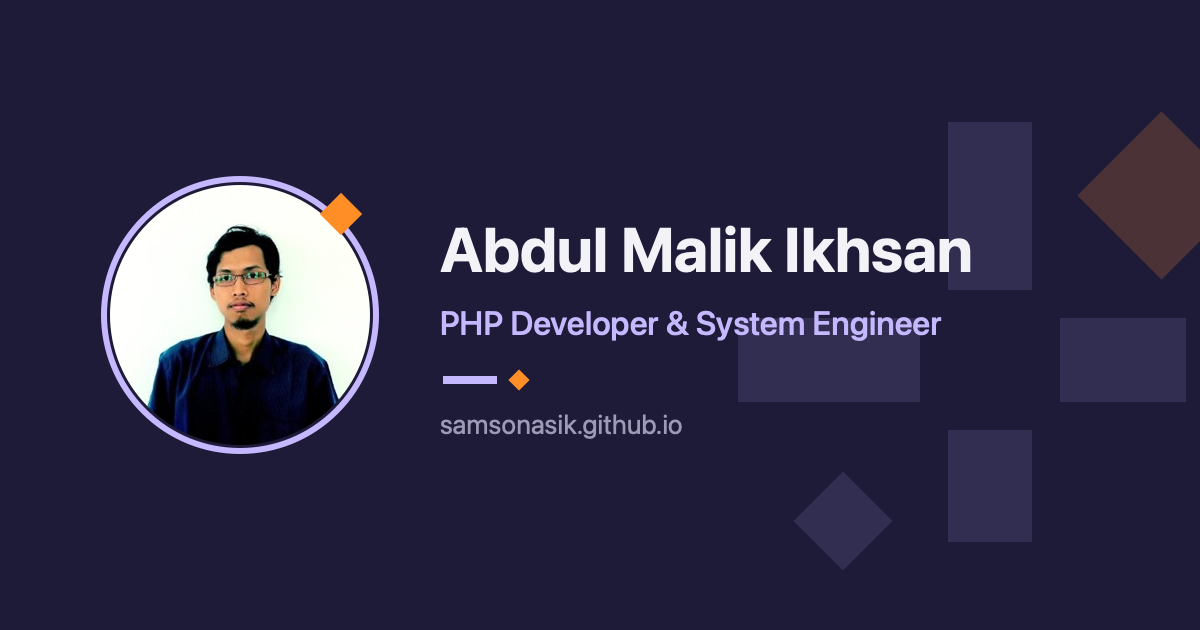
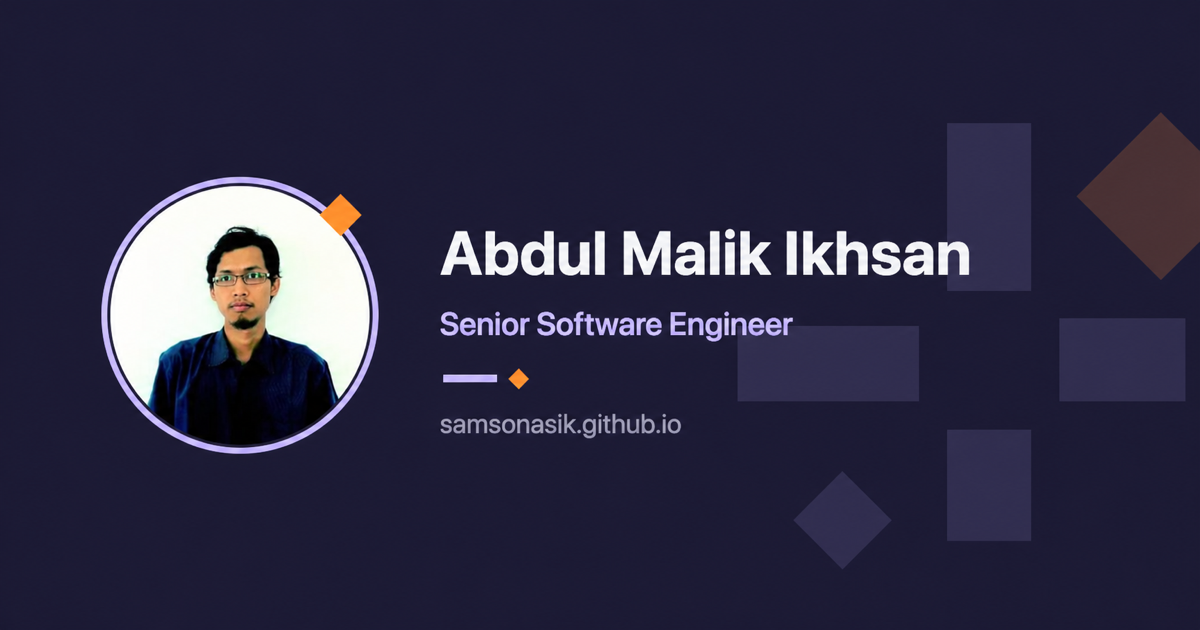
include java

diff --git a/index.html b/index.html
@@ -6,21 +6,23 @@
 <meta name="color-scheme" content="light dark">
 <meta name="theme-color" content="#EFEEF5" media="(prefers-color-scheme: light)">
 <meta name="theme-color" content="#110F1D" media="(prefers-color-scheme: dark)">
-<title>Abdul Malik Ikhsan — PHP Developer &amp; System Engineer</title>
-<meta name="description" content="Abdul Malik Ikhsan (samsonasik) — PHP developer and system engineer in Bandung Barat, Indonesia. Laminas Technical Steering Committee member, top Zend Framework and CodeIgniter 4 contributor.">
-<meta name="keywords" content="php, developer, remote, laminas, zend, mezzio, rector, codeigniter, apigility">
+<title>Abdul Malik Ikhsan — Senior Software Engineer</title>
+<meta name="description" content="Abdul Malik Ikhsan (samsonasik) — senior software engineer in Bandung Barat, Indonesia, with deep experience in web applications, framework development, and open source. Laminas Technical Steering Committee member and leading framework contributor.">
+<meta name="keywords" content="senior software engineer, php, remote, open source, laminas, zend, mezzio, rector, codeigniter, apigility">
 <link rel="canonical" href="https://samsonasik.github.io/">
 
-<meta property="og:title" content="Abdul Malik Ikhsan — PHP Developer &amp; System Engineer">
-<meta property="og:description" content="Abdul Malik Ikhsan (samsonasik) — PHP developer and system engineer in Bandung Barat, Indonesia. Laminas Technical Steering Committee member, top Zend Framework and CodeIgniter 4 contributor.">
+<meta property="og:title" content="Abdul Malik Ikhsan — Senior Software Engineer">
+<meta property="og:description" content="Abdul Malik Ikhsan (samsonasik) — senior software engineer with deep experience in web applications, framework development, and open source.">
 <meta property="og:image" content="https://samsonasik.github.io/og-image.png">
 <meta property="og:image:width" content="1200">
 <meta property="og:image:height" content="630">
+<meta property="og:image:alt" content="Abdul Malik Ikhsan — Senior Software Engineer">
 <meta property="og:type" content="website">
 <meta property="og:url" content="https://samsonasik.github.io/">
 
 <meta name="twitter:card" content="summary_large_image">
 <meta name="twitter:image" content="https://samsonasik.github.io/og-image.png">
+<meta name="twitter:image:alt" content="Abdul Malik Ikhsan — Senior Software Engineer">
 
 <link rel="icon" href="samsonasik-mark.svg" type="image/svg+xml">
 <link rel="preconnect" href="https://fonts.googleapis.com">
@@ -711,7 +713,7 @@ footer .contact:hover{border-color:var(--php);color:#fff;background:rgba(122,126
       <div class="reveal">
         <p class="hero-kicker">Bandung Barat, Indonesia · available remote</p>
         <h1>Abdul Malik <span class="light">Ikhsan</span></h1>
-        <p class="hero-role">PHP Developer &amp; System Engineer</p>
+        <p class="hero-role">Senior Software Engineer</p>
         <p class="hero-lede">
           <strong><span id="years-code">20</span> years</strong> of programming, <span id="years-web">16</span> of them building web applications —
           and more than a decade spent contributing to the frameworks other people depend on.
@@ -1057,7 +1059,7 @@ footer .contact:hover{border-color:var(--php);color:#fff;background:rgba(122,126
 
 <footer id="contact">
   <div class="wrap">
-    <h2 class="foot-h">Open to remote PHP work and framework consulting.</h2>
+    <h2 class="foot-h">Open to remote senior software engineering roles and framework consulting.</h2>
     <div class="contacts">
       <a class="contact" href="mailto:samsonasik@gmail.com" aria-label="Email Abdul Malik Ikhsan">
         <svg viewBox="0 0 24 24" fill="none" stroke="currentColor" stroke-width="2"><rect x="2" y="4" width="20" height="16" rx="2"/><path d="m2 7 10 6 10-6"/></svg>
